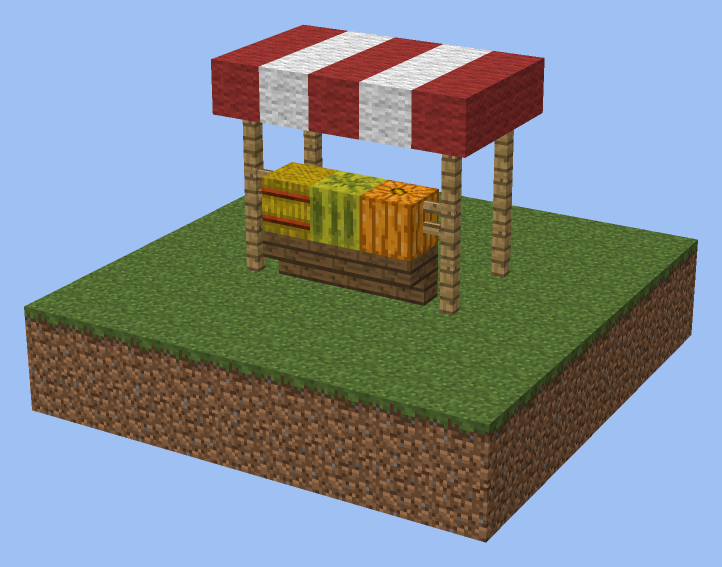
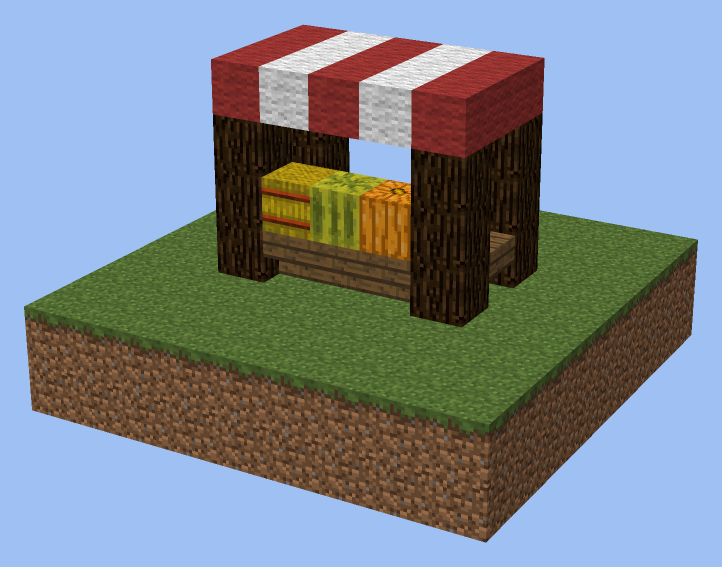
Chantry Gill assets: bannered stalls, a crossed hedge, slab crenels
A stall may hang banners of its roof's colours from the front and both sides
and close its sides, so it is walked into from the back; a hedge crosses its
diagonals in every course (the top-course drop no longer took the lower one)
and may stand grass in the checker's gaps; a wall's steps may be slabs. The
town sheet's crenels are slabs throughout. Tests and LAYER-DOCUMENT lines for
each; every recorded hash holds.

Claude-Session: https://claude.ai/code/session_01SkxaMovP21NqxJRVezmVa6

Changed region(s): [[0.5485, 0.1799, 0.7618, 0.5996], [0.2742, 0.2099, 0.4875, 0.5097]]

diff --git a/freeform/lib/boards/chantry-gill/assets/town_spec.py b/freeform/lib/boards/chantry-gill/assets/town_spec.py
@@ -34,9 +34,9 @@ build = [
      "note": "three deep at the main roof's half-block pitch, its eave a row of upper slabs"},
     {"id": "pen", "op": "wall", "line": [[14, 29], [14, 37], [26, 37], [26, 29]], "height": 1, "blocks": ["FENCE"]},
     {"id": "pen-gate", "op": "blocks", "boxes": [F(20, 41, 37, 20, 41, 37, ["FENCE_GATE", 0])]},
-    {"id": "stall-a", "op": "stall", "at": [44, 22], "facing": "s", "colours": [14, 0], "counter_stair": "SPRUCE_STAIRS"},
-    {"id": "stall-b", "op": "stall", "at": [52, 22], "facing": "s", "colours": [11, 0]},
-    {"id": "stall-c", "op": "stall", "at": [60, 22], "facing": "s", "colours": [4, 13],
+    {"id": "stall-a", "op": "stall", "at": [44, 22], "facing": "s", "colours": [14, 0], "counter_stair": "SPRUCE_STAIRS", "post": ["LOG", 1], "banners": True, "sides": True},
+    {"id": "stall-b", "op": "stall", "at": [52, 22], "facing": "s", "colours": [11, 0], "post": ["LOG", 1], "banners": True, "sides": True},
+    {"id": "stall-c", "op": "stall", "at": [60, 22], "facing": "s", "colours": [4, 13], "post": ["LOG", 1], "banners": True, "sides": True,
      "goods": [["HAY", 0], ["PUMPKIN", 3], ["HAY", 0]]},
     {"id": "lamp-torch", "op": "posts", "at": [[70, 18], [70, 26]], "stack": [["STONE", 6], "COBBLE_WALL", ["TORCH", 5]]},
     {"id": "lamp-redstone", "op": "posts", "at": [[76, 18], [76, 26]],
@@ -47,7 +47,7 @@ build = [
      "rough": {"amp": 0.08, "cell": 4, "seed": 3}},
      "flowers": [["FLOWER", 0], ["DANDELION", 0], ["FLOWER", 3], ["FLOWER", 8], ["FLOWER", 2]], "along": "x", "rows": 2,
      "note": "a field of flowers in the open, two rows a kind, every cell of it planted"},
-    {"id": "hedge", "op": "hedge", "line": [[60, 32], [70, 30], [80, 34], [90, 31]], "seed": 2},
+    {"id": "hedge", "op": "hedge", "line": [[60, 32], [70, 30], [80, 34], [90, 31]], "seed": 2, "grass": True},
     {"id": "cottage", "op": "house", "at": [116, 20], "heading": 0, "L": 9, "W": 6, "storeys": 2, "style": "fell-cottage",
      "door": 1},
     {"id": "cottage-green", "op": "blocks", "boxes": [
@@ -58,14 +58,14 @@ wall = [[10, 60], [40, 52], [70, 56], [100, 50], [130, 58]]
 COURSES = ["COBBLE", ["COBBLE", ["STONE", 5]], ["STONE", 5], [["STONE", 5], ["STONEBRICK", 0]], ["STONEBRICK", 0]]
 build += [
     {"id": "town-wall", "op": "wall", "line": wall, "width": 3, "height": 5, "crown": "follow",
-     "courses": COURSES, "step_stair": "STONEBRICK_STAIRS", "note": "the curtain, cobble at its foot into brick, its walk on top"},
+     "courses": COURSES, "step_slab": ["SLAB", 5], "note": "the curtain, cobble at its foot into brick, its walk on top"},
     {"id": "parapet", "op": "wall", "line": wall, "offset": 1.4, "height": 6, "crown": "follow",
-     "courses": COURSES, "crenel": ["STONEBRICK", 0], "crenel_stair": "STONEBRICK_STAIRS",
-     "note": "a parapet on the outer edge, its crenels stairs"}]
+     "courses": COURSES, "crenel": ["SLAB", 5], "step_slab": ["SLAB", 5],
+     "note": "a parapet on the outer edge, its crenels slabs"}]
 for (cx, cz), a, b in (((40, 52), wall[0], wall[2]), ((100, 50), wall[2], wall[4])):
     ang = lambda p: math.degrees(math.atan2(p[1] - cz, p[0] - cx))                       # noqa: E731
     build.append({"id": f"tower-{cx}", "op": "round_tower", "at": [cx, cz], "half": 4, "height": 13, "openings_from": "floor",
-                  "wall": ["STONEBRICK", 0], "door": "n", "crenel_stair": "STONEBRICK_STAIRS",
+                  "wall": ["STONEBRICK", 0], "door": "n", "crenel": ["SLAB", 5],
                   "openings": [[ang(a), 5], [ang(b), 5]], "floor": ["PLANKS", 1]})
 doc = {"document": "layers", "version": "draft-1",
        "board": {"name": "Chantry Gill town pieces", "x": [0, 139], "z": [0, 69], "floor": 40, "height": 80, "seed": 3},

diff --git a/freeform/lib/pgmvox/built/build.py b/freeform/lib/pgmvox/built/build.py
@@ -755,7 +755,7 @@ CROWNS = ("follow", "level", "grade")
 
 def line_wall(w, H, X, Z, pts, height=2, width=1, crown="follow", run=6, max_grade=1.0, blocks=((B.COBBLE, 0),),
               weights=None, cap=None, crenel=None, gap=None, closed=False, sink=0, keep=None, rng=None, courses=None,
-              crenel_stair=None, step_stair=None):
+              crenel_stair=None, step_stair=None, step_slab=None):
     """A wall, a hedge or a fence along a line over the ground: one generic build, the materials are the board's.
 
     Every cell of the line (four-connected at width 1, the band within width / 2 of it wider) is filled from the
@@ -769,7 +769,7 @@ def line_wall(w, H, X, Z, pts, height=2, width=1, crown="follow", run=6, max_gra
     one entry a course and the last repeated, each a block or a pair laid in a checker, so a wall can run from
     cobble through andesite into brick. `crenel_stair` (a stair id) makes each crenel a stair rising to the line's
     left; `step_stair` sets a stair on a cell whose neighbour along the wall stands one higher, rising to it, so a
-    crown that follows the ground steps up rather than jumps. Returns the cells laid, each (x, z, ground, top)."""
+    crown that follows the ground steps up rather than jumps; `step_slab` (a block) a half step there instead. Returns the cells laid, each (x, z, ground, top)."""
     from pgmvox.geom.shapes import polyline, walk_cells
     assert crown in CROWNS, crown
     pts = [tuple(p) for p in pts] + ([tuple(pts[0])] if closed else [])
@@ -826,12 +826,15 @@ def line_wall(w, H, X, Z, pts, height=2, width=1, crown="follow", run=6, max_gra
             else:
                 w.set(x, t + 1, z, *crenel)
         laid.append((x, z, int(g), int(t)))
-    if step_stair is not None:
+    if step_stair is not None or step_slab is not None:
         tops = {(x, z): t for x, z, _, t in laid}
         for (x, z), t in tops.items():
             for dx, dz in ((1, 0), (-1, 0), (0, 1), (0, -1)):
                 if tops.get((x + dx, z + dz)) == t + 1 and w.id(x, t + 1, z) == B.AIR:
-                    w.set(x, t + 1, z, step_stair, stair_data((dx, dz)))
+                    if step_slab is not None:
+                        w.set(x, t + 1, z, *step_slab)
+                    else:
+                        w.set(x, t + 1, z, step_stair, stair_data((dx, dz)))
                     break
     return laid
 

diff --git a/freeform/lib/pgmvox/built/props.py b/freeform/lib/pgmvox/built/props.py
@@ -52,11 +52,13 @@ def stall(w, x, y, z, facing="e", awning=14, stripe=0, post=(B.FENCE, 0), goods=
 
 
 def market_stall(w, x, y, z, facing="s", colours=(14, 0), width=5, post=(B.FENCE, 0), counter=(B.PLANKS, 1),
-                 counter_stair=None, goods=((B.PUMPKIN, 3), (B.MELON, 0), (B.HAY, 0))):
+                 counter_stair=None, goods=((B.PUMPKIN, 3), (B.MELON, 0), (B.HAY, 0)), banners=False, sides=False):
     """A market stall `width` across and three deep on the floor at y, its counter on the side it faces: fence posts
     three high at the corners, a flat wool roof on the fourth course striped across in `colours`, a counter of
     `counter` between the front posts (or of `counter_stair` upside down, its lip toward the buyer) with `goods`
-    on it in turn and a block of air over them. Returns its cells."""
+    on it in turn and a block of air over them. With `banners`, a banner of each roof block's colour hangs from it
+    along the front and both sides, the back left open; with `sides`, the middle of each side is closed by the
+    counter's block, so the stall is walked into only from the back. Returns its cells."""
     from pgmvox.core.orient import stair as stair_data
     fx, fz = vec(facing)
     rx, rz = -fz, fx                                           # across the stall
@@ -82,6 +84,20 @@ def market_stall(w, x, y, z, facing="s", colours=(14, 0), width=5, post=(B.FENCE
         else:
             w.set(px, y + 1, pz, *counter)
         w.set(px, y + 2, pz, *goods[j % len(goods)])
+    if sides:
+        for v in (-half, half):
+            px, pz = at(1, v)
+            if counter_stair is not None:
+                w.set(px, y + 1, pz, counter_stair, stair_data((-rx * (v // abs(v)), -rz * (v // abs(v))), True))
+            else:
+                w.set(px, y + 1, pz, *counter)
+    if banners:
+        facing_of = {(0, -1): 2, (0, 1): 3, (-1, 0): 4, (1, 0): 5}
+        hung = [(at(3, v), (fx, fz), v) for v in range(-half, half + 1)]
+        hung += [(at(u, sgn * (half + 1)), (rx * sgn, rz * sgn), sgn * half) for u in range(3) for sgn in (-1, 1)]
+        for (bx, bz), out, v in hung:
+            dye = colours[(v + half) % len(colours)]
+            w.banner(bx, y + 4, bz, 15 - dye, wall_facing=facing_of[out])
     return cells
 
 

diff --git a/freeform/lib/pgmvox/document/layers.py b/freeform/lib/pgmvox/document/layers.py
@@ -772,6 +772,7 @@ def build(doc):
                                      and not isinstance(c[1], int) else block(c)
                                      for c in L["courses"]] if "courses" in L else None,
                             crenel_stair=stair_of("crenel_stair"), step_stair=stair_of("step_stair"),
+                            step_slab=block(L["step_slab"]) if "step_slab" in L else None,
                             crown=L.get("crown", "follow"), run=L.get("run", 6), max_grade=L.get("max_grade", 1.0),
                             blocks=[block(b) for b in L.get("blocks", ["COBBLE"])], weights=L.get("weights"),
                             cap=block(L["cap"]) if "cap" in L else None,
@@ -799,6 +800,8 @@ def build(doc):
             for x, z in PR.market_stall(w, sx, int(Hi[sx - x0, sz - z0]), sz, L.get("facing", "s"),
                                         tuple(L.get("colours", [14, 0])), L.get("width", 5),
                                         counter_stair=getattr(B, L["counter_stair"]) if "counter_stair" in L else None,
+                                        post=block(L.get("post", "FENCE")), banners=L.get("banners", False),
+                                        sides=L.get("sides", False),
                                         goods=tuple(block(g) for g in L["goods"]) if "goods" in L else
                                         ((B.PUMPKIN, 3), (B.MELON, 0), (B.HAY, 0))):
                 laid[x - x0, z - z0] = True
@@ -837,7 +840,7 @@ def build(doc):
                     pts = _offset(pts, L["offset"])
                 got = GR.hedge(w, walk_cells([(int(round(x)), int(round(z))) for x, z in pts]), g_at, rr,
                                leaves=block(L.get("leaves", ["LEAVES", 4])), modules=L.get("modules", 1),
-                               drop=L.get("drop", 0.15))
+                               drop=L.get("drop", 0.15), grass=L.get("grass", False))
             elif L["op"] == "small_trees":
                 got = []
                 for tx, tz in L["at"]:

diff --git a/freeform/lib/tests/test_pgmvox.py b/freeform/lib/tests/test_pgmvox.py
@@ -2228,6 +2228,22 @@ class HouseDetails(unittest.TestCase):
         self.assertEqual(w.id(4, 44, 4), B.AIR)                                      # the corner cut
         self.assertEqual(w.id(3, 44, 3), B.STONEBRICK)                               # the ring closed across it
 
+    def test_a_stall_hangs_banners_on_three_sides_and_closes_its_sides(self):
+        w = self.build([{"id": "s", "op": "stall", "at": [0, 0], "facing": "s", "colours": [14, 0], "post": ["LOG", 1],
+                         "banners": True, "sides": True}]).world
+        self.assertEqual(int((w.ids == B.WALL_BANNER).sum()), 5 + 3 + 3)        # front and both sides, none behind
+        self.assertEqual([w.id(x, 41, 0) for x in (-2, 2)], [B.PLANKS] * 2)      # each side closed at its middle
+        self.assertEqual(w.id(-2, 43, 1), B.LOG)                                 # a corner is a full block
+        bases = sorted({t["base"] for t in w.tiles if t["kind"] == "Banner"})
+        self.assertEqual(bases, [1, 15])                                         # the roof's red and white
+
+    def test_a_hedge_crosses_its_diagonals_course_by_course_and_fills_the_gaps_with_grass(self):
+        w = self.build([{"id": "h", "op": "hedge", "line": [[0, 0], [1, 0]], "drop": 0, "grass": True}]).world
+        for y, on in ((41, ((0, 0), (1, 1))), (42, ((1, 0), (0, 1)))):
+            self.assertEqual({(x, z) for x in (0, 1) for z in (0, 1) if w.id(x, y, z) == B.LEAVES}, set(on))
+            self.assertEqual({(x, z) for x in (0, 1) for z in (0, 1) if w.id(x, y, z) == B.TALLGRASS},
+                             {(x, z) for x in (0, 1) for z in (0, 1)} - set(on))
+
     def test_a_field_lays_farmland_and_its_fence_gate(self):
         w = self.build([{"id": "f", "op": "field", "rect": [-10, -10, 10, 10], "crops": [["WHEAT", 7]]}]).world
         self.assertGreater(int((w.ids == B.FARMLAND).sum()), 200)

diff --git a/freeform/lib/pgmvox/scenery/green.py b/freeform/lib/pgmvox/scenery/green.py
@@ -12,11 +12,13 @@ from pgmvox.core.blocks import B
 LEAVES = (B.LEAVES, 4)                       # oak leaves that never decay
 
 
-def hedge(w, cells, ground, rng, leaves=LEAVES, modules=1, drop=0.15):
+def hedge(w, cells, ground, rng, leaves=LEAVES, modules=1, drop=0.15, grass=False):
     """A hedge along `cells` (a line's cells, in order): each cell names the 2 by 2 module of the two-block grid
     it falls in, so the modules step diagonally where the line does. A module stands on the lowest ground under it
     and holds a checker of leaves, the lower course on one diagonal and the upper on the other, `modules` high;
-    `drop` of its top leaves are left off so the crown is not ruled. Returns the columns it stands in."""
+    `drop` of its top leaves are left off so the crown is not ruled; with `grass`, tall grass stands in each gap
+    the checker leaves, on the leaf or the ground under it, a cheat that holds while blocks do not update. Returns
+    the columns it stands in."""
     seen, out = set(), []
     for x, z in cells:
         mx, mz = x // 2 * 2, z // 2 * 2
@@ -29,8 +31,10 @@ def hedge(w, cells, ground, rng, leaves=LEAVES, modules=1, drop=0.15):
             for b in (0, 1):
                 for k in range(2 * modules):
                     if (a + b + k) % 2:
+                        if grass and w.id(mx + a, foot + 1 + k, mz + b) == B.AIR:
+                            w.set(mx + a, foot + 1 + k, mz + b, B.TALLGRASS, 1)
                         continue
-                    if k == top - 1 and rng.random() < drop:
+                    if k == top and rng.random() < drop:
                         continue
                     for y in range(ground(mx + a, mz + b) + 1, foot + 1 + k):
                         if w.id(mx + a, y, mz + b) == B.AIR:       # down to the ground on a slope

diff --git a/analysis/freeform-vs-studio/LAYER-DOCUMENT.md b/analysis/freeform-vs-studio/LAYER-DOCUMENT.md
@@ -138,14 +138,14 @@ the slope and rock in beds that follow the surface. The water's bed has a stack 
 | `op` | Numbers | From pgmvox |
 |---|---|---|
 | `surface` | `near` (a path layer), `blocks`, `weights`, `steps`: none, `stairs` (`stair`) or `half` (`slab`) | `route.pave`, `route.steps`, `route.halfsteps` |
-| `wall` | `line` or `near` + `offset`, `height`, `width`, `crown` (`follow`, `level`, `grade`), `run`, `blocks`, `weights`, `courses` (from the foot up, a block or a checker pair each), `cap`, `crenel`, `crenel_stair`, `step_stair`, `gap`, `closed` | `build.line_wall` |
+| `wall` | `line` or `near` + `offset`, `height`, `width`, `crown` (`follow`, `level`, `grade`), `run`, `blocks`, `weights`, `courses` (from the foot up, a block or a checker pair each), `cap`, `crenel`, `crenel_stair`, `step_stair` or `step_slab`, `gap`, `closed` | `build.line_wall` |
 | `house` | `at`, `heading`, `L`, `W`, `storeys`, `storey`, `style` (`town`, `plaster`, `brick`, `stone`, a name in `styles`, or an object), `roof`, `pitch`, `overhang`, `door`, `jetty`, `chimney` | `build.house` |
 | `blocks` | `boxes`, each a `box` (x0, y0, z0, x1, y1, z1) and a `block` | the document's own |
 | `field` | `rect`, `crops`, `rows`, `ditch`, `fence`, `gate`, `scarecrows`, `y` | `props.crop_field`, `props.scarecrow` |
-| `stall` | `at`, `facing`, `colours` (the roof's stripes), `width`, `goods` | `props.market_stall` |
+| `stall` | `at`, `facing`, `colours` (the roof's stripes), `width`, `post`, `counter_stair`, `goods`, `banners` (front and sides), `sides` (closed, entered from the back) | `props.market_stall` |
 | `posts` | `at` (points), `stack` (blocks from the ground up: a lamp, a bollard) | the document's own |
 | `round_tower` | `at`, `r` or `half` (a square with its corners cut), `height`, `y`, `wall`, `floor`, `crenel`, `crenel_stair`, `door`, `openings` ([angle, y]: a wall-walk's way in; `openings_from: floor` counts y from its floor), `slit` | `build.round_tower` |
-| `hedge` | `line` or `near` + `offset`, `leaves`, `modules`, `drop` | `green.hedge` |
+| `hedge` | `line` or `near` + `offset`, `leaves`, `modules`, `drop`, `grass` (in the checker's gaps) | `green.hedge` |
 | `small_trees` | `at` (points), `trunk`, `log`, `leaves`, `bite` | `green.round_oak` |
 | `flowers` | `area`, `flowers`, `along`, `rows` | `green.flower_rows` |
 
